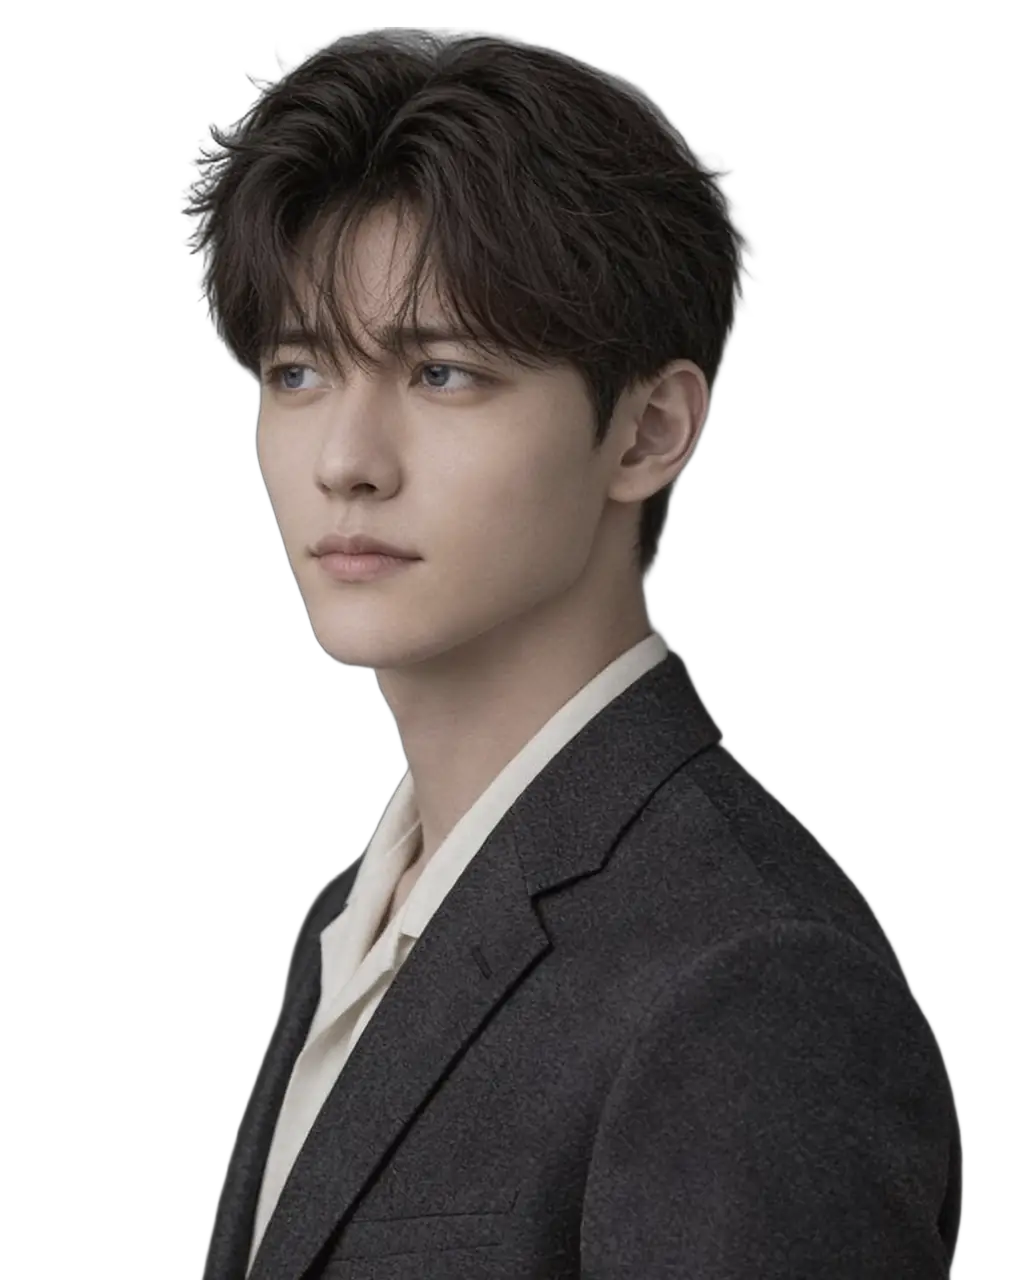
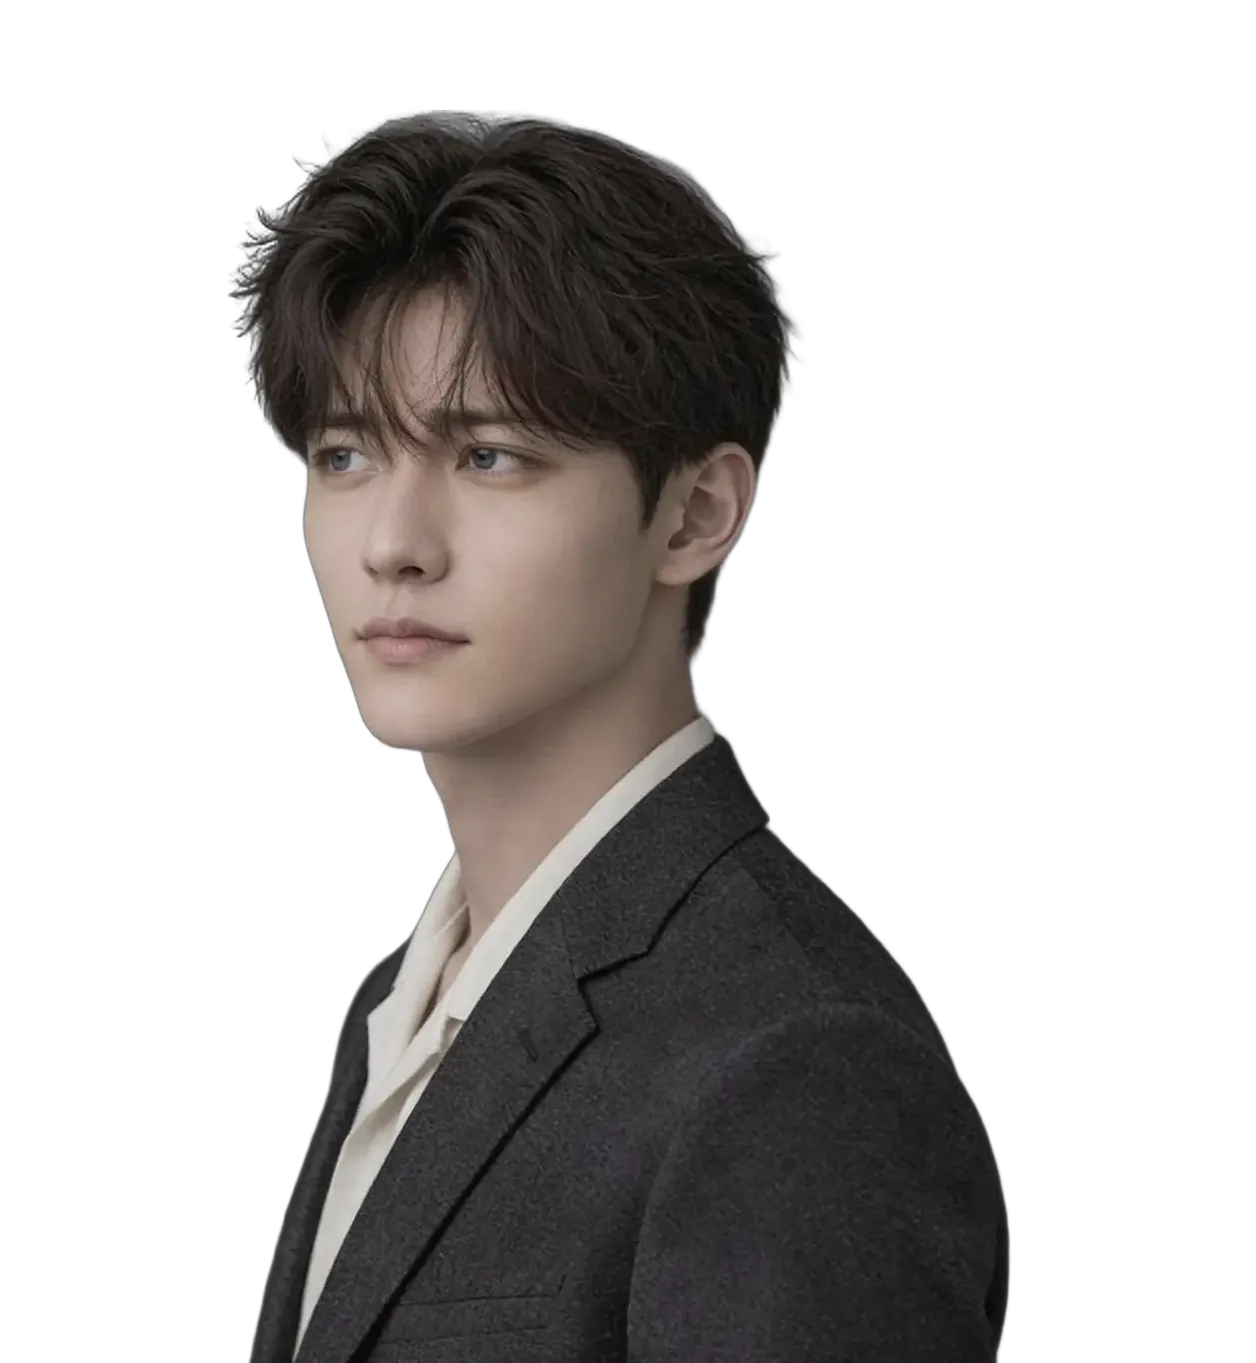
盧卡斯大立繪換成補完右肩的 v95 版：半身全露、不再往下藏
場景光影 #3 把右肩補到衣服邊（art/lucas-stage-v95），畫布 1256×1363、四周留白 8%。
大立繪框貼畫面底，人物右緣對齊台詞欄左邊 8px；srcset 改成立繪自己的 628／1256，
不再混頭像的 512（畫布不同會對不齊）。頭像 512／144 和 face_cx 不變。
e2e：三邊全透明、不出畫面左緣、不壓台詞欄、框底等於畫面底；舊版 5/5 紅、新版 5/5 綠。

Claude-Session: https://claude.ai/code/session_01UdcgzeCJYz5mVVb7mGqkHi

diff --git a/e2e/portrait-face.spec.ts b/e2e/portrait-face.spec.ts
@@ -84,15 +84,20 @@ for (const lang of ['zh', 'en'] as const)
   });
 
 /**
- * 寬螢幕左下角的盧卡斯大立繪（≥1360）：立繪包的右肩碰到圖的右緣（4:5 裁切），露出來就是一條直的切邊
- * （體驗評測 5ad27e3：原本用遮罩淡掉，看得到灰糊的一條邊）。碰到右緣的那一段要整個在畫面下緣以下。
+ * 寬螢幕左下角的盧卡斯大立繪（≥1360）。v94 以前立繪包的右肩碰到圖的右緣（4:5 裁切），露出來就是一條直的
+ * 切邊（體驗評測 5ad27e3），只好整張往下藏。v95 場景光影 #3 把右肩補完（art/lucas-stage-v95），
+ * 畫布四周留白：除了下緣，圖的上、左、右三邊都是全透明，框貼畫面底、半身全露出來。
+ * 量：畫面上那張是立繪畫布（1256 或 628，不能是頭像的 512）；三邊沒有不透明像素；人物不出畫面左緣、
+ * 不壓到台詞欄；框的下緣就是畫面下緣。
  */
 for (const [w, h] of [
+  [1360, 768],
   [1366, 768],
+  [1512, 900],
   [1440, 900],
   [1920, 1080],
 ] as const)
-  test(`盧卡斯大立繪：右肩的裁切邊不在畫面裡（${w}×${h}）`, async ({ page }, info) => {
+  test(`盧卡斯大立繪：半身完整、沒有切邊（${w}×${h}）`, async ({ page }, info) => {
     test.skip(info.project.name !== 'desktop', '寬螢幕才有');
     await page.setViewportSize({ width: w, height: h });
     await open(page, 'zh');
@@ -100,7 +105,6 @@ for (const [w, h] of [
     await expect(img).toBeVisible();
     await expect(img).toHaveJSProperty('complete', true);
     const m = await img.evaluate(async (el: HTMLImageElement) => {
-      // 用原圖量：右緣那一欄從哪一列開始不透明。
       const src = new Image();
       src.src = el.currentSrc;
       await src.decode();
@@ -109,15 +113,37 @@ for (const [w, h] of [
       c.height = src.naturalHeight;
       const g = c.getContext('2d')!;
       g.drawImage(src, 0, 0);
-      const col = g.getImageData(c.width - 1, 0, 1, c.height).data;
-      let y = 0;
-      while (y < c.height && col[y * 4 + 3] <= 20) y++;
+      const { data } = g.getImageData(0, 0, c.width, c.height);
+      const a = (x: number, y: number) => data[(y * c.width + x) * 4 + 3];
+      let edge = 0;
+      for (let y = 0; y < c.height; y++) edge = Math.max(edge, a(0, y), a(c.width - 1, y));
+      for (let x = 0; x < c.width; x++) edge = Math.max(edge, a(x, 0));
+      // 人物左右最外的不透明欄（alpha > 20）。
+      let x0 = c.width;
+      let x1 = 0;
+      for (let y = 0; y < c.height; y += 2)
+        for (let x = 0; x < c.width; x++)
+          if (a(x, y) > 20) {
+            x0 = Math.min(x0, x);
+            x1 = Math.max(x1, x);
+          }
       const r = el.getBoundingClientRect();
+      const col = document.querySelector('.scene.dialogue')!.getBoundingClientRect();
       return {
-        edge: r.top + (y / c.height) * r.height,
+        natural: [c.width, c.height],
+        edge,
+        left: r.left + (x0 / c.width) * r.width,
+        right: r.left + ((x1 + 1) / c.width) * r.width,
+        bottom: r.bottom,
         h: innerHeight,
-        mask: getComputedStyle(el.parentElement!).maskImage,
+        colLeft: col.left,
       };
     });
-    expect(m.edge, JSON.stringify(m)).toBeGreaterThanOrEqual(m.h);
+    const info2 = JSON.stringify(m);
+    expect([628, 1256], info2).toContain(m.natural[0]);
+    expect(m.natural[0] / m.natural[1], info2).toBeCloseTo(1256 / 1363, 2);
+    expect(m.edge, info2).toBeLessThanOrEqual(2);
+    expect(m.left, info2).toBeGreaterThanOrEqual(0);
+    expect(m.bottom, info2).toBeCloseTo(m.h, 0);
+    expect(m.right, info2).toBeLessThanOrEqual(m.colLeft - 4);
   });

diff --git a/src/ui/styles.css b/src/ui/styles.css
@@ -927,15 +927,18 @@ details summary {
 }
 /* 對話場景旁的盧卡斯大圖：寬螢幕才有，貼在台詞欄左邊、底部對齊。 */
 .lucas-stage {
-  /* 台詞欄寬 880px；大圖取左邊剩下的空間，最多 300px。1360px 以下不出現（Portrait.tsx）。 */
-  --w: min(300px, calc(50vw - 456px));
+  /* 台詞欄寬 880px；大圖取左邊剩下的空間。--w 是舊 4:5 立繪框的寬（人物比例照 v94，最多 300px），
+     1360px 以下不出現（Portrait.tsx）。
+     v95 立繪補完右肩（場景光影 #3，art/lucas-stage-v95）：畫布 1256×1363，舊 1024 框的 (x, y) 在新畫布
+     (x + 47, y + 83)，人物上、左、右各留 8%（x 100–1154）。所以不再往下藏半身、不用遮罩：
+     框貼畫面底，人物右緣（x 1154）對齊台詞欄左邊 8px。人物寬是 --w × 1054/1024，
+     --w 乘 0.97 讓左肩在最窄的寬螢幕也不出畫面。 */
+  --w: min(300px, calc((50vw - 456px) * 0.97));
   position: fixed;
-  /* 立繪包的右肩從圖高 74.5% 起碰到圖的右緣（4:5 裁切），原本用遮罩淡掉，看得到一條灰糊的直邊。
-     整張往下放 26%，那一段落到畫面底下：只剩半身，肩膀由畫面下緣切，不會有切邊（體驗評測 5ad27e3）。 */
-  bottom: calc(var(--w) * -1.25 * 0.26);
-  right: calc(50% + 440px + 8px);
-  width: var(--w);
-  aspect-ratio: 4 / 5;
+  bottom: 0;
+  right: calc(50% + 440px + 8px - var(--w) * 102 / 1024);
+  width: calc(var(--w) * 1256 / 1024);
+  aspect-ratio: 1256 / 1363;
   margin: 0;
   pointer-events: none;
   z-index: 0;

diff --git a/src/ui/Portrait.tsx b/src/ui/Portrait.tsx
@@ -113,25 +113,26 @@ function useWide() {
 }
 
 /**
- * 對話場景旁的盧卡斯大圖（1024，寬螢幕才有；手機不載）。他還沒開口就不出現。
+ * 對話場景旁的盧卡斯大圖（立繪 1256／628，寬螢幕才有；手機不載）。他還沒開口就不出現。
+ * 立繪和頭像的畫布不同（立繪補過右肩），srcset 只能放立繪自己的兩個尺寸，不能混頭像的 512。
  * 立繪包全組對齊過，換表情時疊起來交叉淡化，不會跳位。
  */
 export function LucasStage({ lines }: { lines: Line[] }) {
   const show = useWide();
   const said = lines.filter((l) => l.who === LUCAS && !l.mark);
   if (!show || !said.length) return null;
-  const now = lucas(said[said.length - 1].mood, 1024);
+  const now = lucas(said[said.length - 1].mood, 1256);
   const seen = [...new Set(said.map((l) => l.mood))];
   return (
     <figure className="lucas-stage" aria-hidden>
       {seen.map((mood) => {
-        const big = lucas(mood, 1024);
+        const big = lucas(mood, 1256);
         return (
           <img
             key={mood}
             src={big}
-            srcSet={`${lucas(mood, 512)} 512w, ${big} 1024w`}
-            sizes="300px"
+            srcSet={`${lucas(mood, 628)} 628w, ${big} 1256w`}
+            sizes="min(368px, calc((50vw - 456px) * 1.19))"
             alt=""
             decoding="async"
             className={big === now ? 'on' : undefined}

diff --git a/src/ui/cast.ts b/src/ui/cast.ts
@@ -3,7 +3,8 @@ import lucasYaml from './cast/lucas/lucas.yaml?raw';
 
 /**
  * 正式立繪（視覺設計師的立繪包，art-bible/cast/lead/pack）。
- * 圖檔照包裡的結構放：根目錄 1024×1280、512/、144/；每個表情用哪一張看 yaml 的 default。
+ * 圖檔照包裡的結構放：根目錄是立繪（1256×1363，v95 右肩補完的畫布）、628/ 是它的一半，
+ * 512/、144/ 是頭像（4:5，只裁臉）；每個表情用哪一張看 yaml 的 default。
  * 補新表情或換預設張，只要把圖和新的 yaml 放進來，這裡不用改。
  */
 export type Expr = 'plain' | 'tense' | 'warm' | 'hard' | 'panic' | 'silent';
@@ -46,10 +47,10 @@ const urls = import.meta.glob<string>('./cast/lucas/**/*.webp', {
   import: 'default',
 });
 
-export type Size = 144 | 512 | 1024;
+export type Size = 144 | 512 | 628 | 1256;
 
 function dir(size: Size) {
-  return size === 1024 ? './cast/lucas/' : `./cast/lucas/${size}/`;
+  return size === 1256 ? './cast/lucas/' : `./cast/lucas/${size}/`;
 }
 
 const picks = defaults(lucasYaml);

diff --git a/src/ui/cast.test.ts b/src/ui/cast.test.ts
@@ -10,10 +10,10 @@ describe('立繪包', () => {
 
   it('每個 mood 三種尺寸都有圖；變體名稱照 yaml 找檔', () => {
     for (const mood of ['平', '緊', '暖', '硬', '慌', '默', undefined])
-      for (const size of [144, 512, 1024] as const) expect(lucas(mood, size)).toBeTruthy();
+      for (const size of [144, 512, 628, 1256] as const) expect(lucas(mood, size)).toBeTruthy();
     expect(lucas('硬', 144)).toMatch(/hard/);
-    expect(lucas('緊', 1024)).toMatch(/tense-light/);
-    expect(lucas('慌', 1024)).toMatch(/panic/);
+    expect(lucas('緊', 1256)).toMatch(/tense-light/);
+    expect(lucas('慌', 1256)).toMatch(/panic/);
     expect(lucas('默', 512)).toMatch(/silent/);
   });
 
